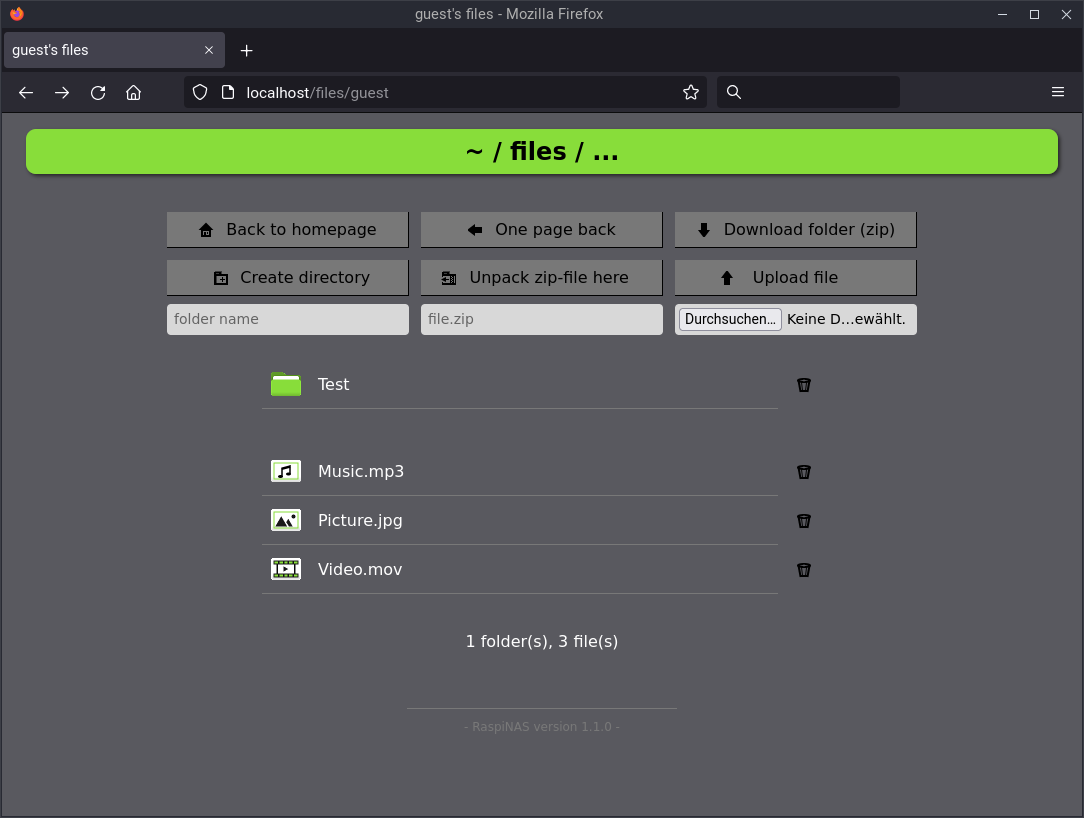
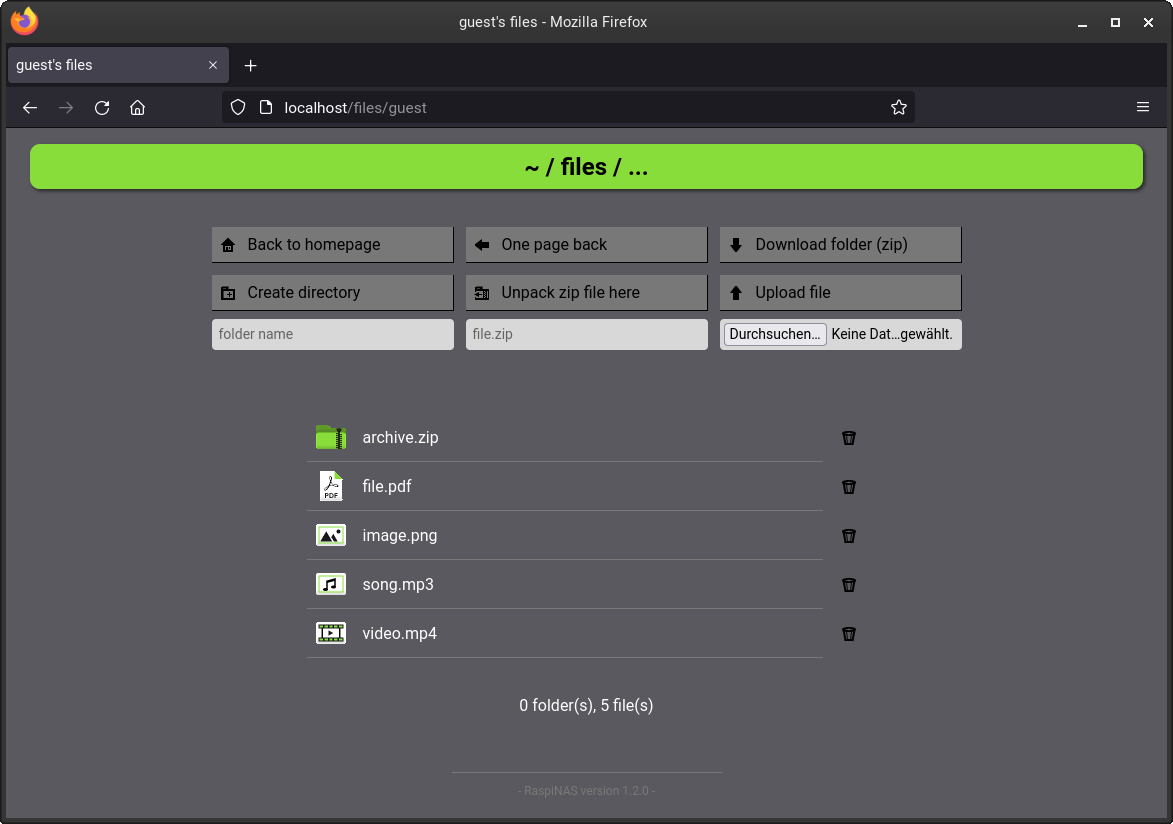
Add option to save uploaded files in a different directory

diff --git a/server.py b/server.py
@@ -13,7 +13,7 @@
 # You should have received a copy of the GNU Affero General Public License along with this program.
 # If not, see <https://www.gnu.org/licenses/>.
 
-# Currently recommended Python version: 3.10.4
+# Currently recommended Python version: 3.10.5
 
 import os
 import paste
@@ -33,31 +33,36 @@ from html_pages import HtmlPages
 LANGUAGE = 'en'  # 'en' for English, 'de' for German (Deutsch)
 HOSTIP = '0.0.0.0'  # 'localhost' for test purposes, '0.0.0.0' listens anywhere
 PORT = 80  # default HTTP port 80
+FILEPATH = ''  # path where the uploaded files are stored (e.g. '/home/user/files/')
 OWNER = ''  # insert a name here to personalize the webapp (e.g. 'John Doe')
-VERSION = '1.1.4'  # fix a problem where the uploaded file is incomplete (2022/05/08)
-ALPHABET = "ABCDEFGHIJKLMNOPQRSTUVWXYZabcdefghijklmnopqrstuvwxyz1234567890()+,.-_ "  # used to define allowed characters in directory names
-HTML = HtmlPages(OWNER, LANGUAGE)  # import repeatedly used HTML pages (to keep this file short and clear)
+VERSION = '1.2.0'  # add option to select a target path for the uploaded files (2022/06/26)
+ALPHABET = 'ABCDEFGHIJKLMNOPQRSTUVWXYZabcdefghijklmnopqrstuvwxyz1234567890()+,.-_ '  # used to define allowed characters in directory names
+HTML = HtmlPages(OWNER, LANGUAGE)  # import commonly used HTML pages (to keep this file short and clear)
 
 # ----- Beginning of the main functions: ------------------------------------------------
 #
 # __ Load usernames and userdata: __
-names = open("usernames.dat", "r", encoding="utf-8")
+names = open('usernames.dat', 'r', encoding='utf-8')
 USERNAMES = names.readlines()
 for entry in range(len(USERNAMES)):
-    USERNAMES[entry] = USERNAMES[entry].replace("\n", "")
+    USERNAMES[entry] = USERNAMES[entry].replace('\n', '')
 names.close()
-data = open("userdata.dat", "r", encoding="utf-8")
+data = open('userdata.dat', 'r', encoding='utf-8')
 USERDATA = data.readlines()
 for entry in range(len(USERDATA)):
-    USERDATA[entry] = USERDATA[entry].replace("\n", "")
+    USERDATA[entry] = USERDATA[entry].replace('\n', '')
 data.close()
+#
+# __ Ensure the correctness of the target file path: __
+if FILEPATH and FILEPATH[-1] != '/':
+    FILEPATH += '/'
 #
 # __ Increase allowed file size of uploads: __
 bottle.BaseRequest.MEMFILE_MAX = 32 * 1024 * 1024
 #
 # __ Create random cookie-secret: __
 SECRET = ''
-SECRET_ALPHABET = "abcdefghijklmnopqrstuvwxyz1234567890"
+SECRET_ALPHABET = 'abcdefghijklmnopqrstuvwxyz1234567890'
 for i in range(64):
     SECRET += SECRET_ALPHABET[random.randint(0, len(SECRET_ALPHABET) - 1)]
 #
@@ -86,7 +91,7 @@ def login():
             login_successful = True
             break
     if login_successful:
-        bottle.response.set_cookie("user", hashed, secret=SECRET)
+        bottle.response.set_cookie('user', hashed, secret=SECRET)
         bottle.redirect(f'/files/{str(name)}')
     else:
         return HTML.LoginFailed
@@ -107,10 +112,10 @@ def list_directory(directory):
             if username == USERNAMES[position] and user == (position + 1):
                 files = []
                 folders = []
-                folder_list = ""
-                file_list = ""
-                if os.path.isdir(f'users/{folder_path}'):
-                    for (pth, fol, dat) in os.walk(f'users/{folder_path}'):
+                folder_list = ''
+                file_list = ''
+                if os.path.isdir(f'{FILEPATH}users/{folder_path}'):
+                    for (pth, fol, dat) in os.walk(f'{FILEPATH}users/{folder_path}'):
                         folders.extend(fol)
                         files.extend(dat)
                         break
@@ -138,15 +143,15 @@ def list_directory(directory):
                     for file in files:
                         file_extension = str(file).split('.')[-1]
                         file_type = 'file'
-                        if file_extension.lower() in ["png", "bmp", "jpg", "jpeg", "gif", "tga", "dds", "heic", "webp"]:
+                        if file_extension.lower() in ['png', 'bmp', 'jpg', 'jpeg', 'gif', 'tga', 'dds', 'heic', 'webp']:
                             file_type = 'image'
-                        elif file_extension.lower() in ["zip", "tar", "7z", "gz", "deb", "rpm"]:
+                        elif file_extension.lower() in ['zip', 'tar', '7z', 'gz', 'deb', 'rpm']:
                             file_type = 'zip_folder'
-                        elif file_extension.lower() in ["mkv", "webm", "flv", "avi", "mov", "wmv", "mp4", "m4v"]:
+                        elif file_extension.lower() in ['mkv', 'webm', 'flv', 'avi', 'mov', 'wmv', 'mp4', 'm4v']:
                             file_type = 'video'
-                        elif file_extension.lower() in ["pdf"]:
+                        elif file_extension.lower() in ['pdf']:
                             file_type = 'pdf'
-                        elif file_extension.lower() in ["aac", "mp3", "m4a", "acc", "wav", "wma", "ogg", "flac", "aiff", "alac", "dsd", "mqa", "opus"]:
+                        elif file_extension.lower() in ['aac', 'mp3', 'm4a', 'acc', 'wav', 'wma', 'ogg', 'flac', 'aiff', 'alac', 'dsd', 'mqa', 'opus']:
                             file_type = 'music'
                         else:
                             pass
@@ -211,9 +216,9 @@ def list_directory(directory):
                                f'font-family:sans-serif; font-size:14px; margin-top:8px" required />'
                                f'</form></div>')
 
-                    show_path = ""
+                    show_path = ''
                     if len(folder_path.split('/')) > 1:
-                        show_path = (' / '.join(folder_path.split('/')[1:])) + " / "
+                        show_path = (' / '.join(folder_path.split('/')[1:])) + ' / '
                     header_language = [f'{username}\'s files', 'files', 'folder(s)', 'file(s)', 'version']
                     if LANGUAGE == 'de':
                         header_language = [f'Dateien von {username}', 'Dateien', 'Ordner', 'Dateien', 'Version']
@@ -253,7 +258,7 @@ def download_file(filepath):
         directory = '/'.join(str(filepath).split('/')[:-1])
         for position in range(len(USERNAMES)):
             if username == USERNAMES[position] and user == (position + 1):
-                return bottle.static_file(file, root='users/' + directory, download=file)
+                return bottle.static_file(file, root=f'{FILEPATH}users/{directory}', download=file)
     return HTML.AccessDenied
 
 
@@ -266,11 +271,11 @@ def download_zip(zippath):
         folder_name = directory.split('/')[-1]
         for position in range(len(USERNAMES)):
             if username == USERNAMES[position] and user == (position + 1):
-                if os.path.isfile(f'temp/{username}/{folder_name}.zip'):
-                    os.remove(f'temp/{username}/{folder_name}.zip')
-                shutil.make_archive(f'temp/{username}/{folder_name}', 'zip', f'users/{directory}')
-                # subprocess.run(f"zip -r ./temp/{username}/{folder_name}.zip ./users/{directory}/", shell=True, stdout=subprocess.DEVNULL)
-                return bottle.static_file(f'{folder_name}.zip', root=f'temp/{username}', download=f'{folder_name}.zip')
+                if os.path.isfile(f'{FILEPATH}temp/{username}/{folder_name}.zip'):
+                    os.remove(f'{FILEPATH}temp/{username}/{folder_name}.zip')
+                shutil.make_archive(f'{FILEPATH}temp/{username}/{folder_name}', 'zip', f'{FILEPATH}users/{directory}')
+                # subprocess.run(f'zip -r {FILEPATH}temp/{username}/{folder_name}.zip {FILEPATH}users/{directory}/', shell=True, stdout=subprocess.DEVNULL)
+                return bottle.static_file(f'{folder_name}.zip', root=f'{FILEPATH}temp/{username}', download=f'{folder_name}.zip')
     return HTML.AccessDenied
 
 
@@ -286,9 +291,9 @@ def delete_directory(deldirectorypath):
             return
         for position in range(len(USERNAMES)):
             if username == USERNAMES[position] and user == (position + 1):
-                if os.path.isdir(f'users/{directory}'):
-                    shutil.rmtree(f'users/{directory}')
-                    # subprocess.run(f"rm -rf users/{directory}", shell=True, stdout=subprocess.DEVNULL)
+                if os.path.isdir(f'{FILEPATH}users/{directory}'):
+                    shutil.rmtree(f'{FILEPATH}users/{directory}')
+                    # subprocess.run(f'rm -rf {FILEPATH}users/{directory}', shell=True, stdout=subprocess.DEVNULL)
                     bottle.redirect(f'/files/{prior_folder}')
                 else:
                     return HTML.NoDirectory
@@ -304,8 +309,8 @@ def delete_file(delfilepath):
         username = filepath.split('/')[0]
         for position in range(len(USERNAMES)):
             if username == USERNAMES[position] and user == (position + 1):
-                if os.path.isfile(f'users/{filepath}'):
-                    os.remove(f'users/{filepath}')
+                if os.path.isfile(f'{FILEPATH}users/{filepath}'):
+                    os.remove(f'{FILEPATH}users/{filepath}')
                     bottle.redirect(f'/files/{folder}')
                 else:
                     return HTML.NoFile
@@ -332,8 +337,8 @@ def create_directory(parentpath):
                 if len(new_folder) == 0 or len(new_folder) == new_folder.count(' '):
                     new_folder = 'new_folder'
                 #
-                if not os.path.isdir(f'users/{directory}/{new_folder}'):
-                    os.mkdir(f'users/{directory}/{new_folder}')
+                if not os.path.isdir(f'{FILEPATH}users/{directory}/{new_folder}'):
+                    os.mkdir(f'{FILEPATH}users/{directory}/{new_folder}')
                 bottle.redirect(f'/files/{directory}')
     return HTML.AccessDenied
 
@@ -348,12 +353,12 @@ def unpack_zipfile(ziptarget):
         username = target_folder.split('/')[0]
         for position in range(len(USERNAMES)):
             if username == USERNAMES[position] and user == (position + 1):
-                if os.path.isfile(f'users/{target_folder}/{zipfile}') and \
-                        not os.path.isdir(f'users/{target_folder}/{folder_name}') and \
+                if os.path.isfile(f'{FILEPATH}users/{target_folder}/{zipfile}') and \
+                        not os.path.isdir(f'{FILEPATH}users/{target_folder}/{folder_name}') and \
                         zipfile.split('.')[-1] == 'zip':
-                    os.mkdir(f'users/{target_folder}/{folder_name}')
-                    shutil.unpack_archive(f'users/{target_folder}/{zipfile}', f'users/{target_folder}/{folder_name}', 'zip')
-                    # subprocess.run(f"unzip ./users/{target_folder}/{zipfile} -d ./users/{target_folder}/{folder_name}", shell=True, stdout=subprocess.DEVNULL)
+                    os.mkdir(f'{FILEPATH}users/{target_folder}/{folder_name}')
+                    shutil.unpack_archive(f'{FILEPATH}users/{target_folder}/{zipfile}', f'{FILEPATH}users/{target_folder}/{folder_name}', 'zip')
+                    # subprocess.run(f'unzip {FILEPATH}users/{target_folder}/{zipfile} -d {FILEPATH}users/{target_folder}/{folder_name}', shell=True, stdout=subprocess.DEVNULL)
                     bottle.redirect(f'/files/{target_folder}/{folder_name}')
                 else:
                     error_language = ['Unpacking failed', 'Error: The given file does not exist or the target directory is not empty.', 'Back']
@@ -388,14 +393,14 @@ def upload_file(targetpath):
             if username == USERNAMES[position] and user == (position + 1):
                 new_file = bottle.request.files.get('filename')
                 copy_count = 0
-                while os.path.isfile(f'users/{target_folder}/{new_file.filename}'):
+                while os.path.isfile(f'{FILEPATH}users/{target_folder}/{new_file.filename}'):
                     copy_count += 1
                     name_parts = new_file.filename.split('.')
                     if copy_count > 1:
                         name_parts[-2] = name_parts[-2][:-3]
-                    name_parts[-2] = name_parts[-2] + f"({copy_count})"
+                    name_parts[-2] = name_parts[-2] + f'({copy_count})'
                     new_file.filename = '.'.join(name_parts)
-                new_file.save(f'users/{target_folder}')
+                new_file.save(f'{FILEPATH}users/{target_folder}')
                 bottle.redirect(f'/files/{target_folder}')
     return HTML.AccessDenied
 
@@ -406,7 +411,7 @@ def get_icon(image):
 
 
 def check_login():
-    hashed_credentials = bottle.request.get_cookie("user", secret=SECRET)
+    hashed_credentials = bottle.request.get_cookie('user', secret=SECRET)
     if hashed_credentials:
         for position in range(len(USERDATA)):
             if hashed_credentials == USERDATA[position]:
@@ -418,8 +423,8 @@ def background_task():
     while True:
         thread_wait.wait(1800)
         for name in USERNAMES:
-            for temp_file in os.listdir(f'temp/{name}'):
-                os.remove(f'temp/{name}/{temp_file}')
+            for temp_file in os.listdir(f'{FILEPATH}temp/{name}'):
+                os.remove(f'{FILEPATH}temp/{name}/{temp_file}')
 
 
 def start_receiver():

diff --git a/add_users.py b/add_users.py
@@ -1,5 +1,5 @@
 # This file creates hashed values from the user credentials and can be used to set up the needed directories.
-# Copyright (C) 2021  Nico Pieplow (nitrescov)
+# Copyright (C) 2022  Nico Pieplow (nitrescov)
 # Contact: nitrescov@protonmail.com
 
 # This program is free software: you can redistribute it and/or modify it under the terms of the
@@ -37,7 +37,7 @@ while True:
     print("\n--- add user ---\n")
     name = input("name: ")
     pin = input("pin: ")
-    hashed = hashlib.sha224(str(pin).encode('utf-8') + str(name).encode('utf-8')).hexdigest()
+    hashed = hashlib.sha224(str(pin).encode("utf-8") + str(name).encode("utf-8")).hexdigest()
     userfile = open("usernames.dat", "a", encoding="utf-8")
     userfile.write(str(name) + "\n")
     userfile.close()
@@ -62,6 +62,7 @@ if input() == "y":
         if not os.path.isdir(f"temp/{currentName}"):
             os.mkdir(f"temp/{currentName}")
     file.close()
+    print("\n\nTo save the uploaded files in another directory, move \'temp\' and \'users\' to the respective target directory.")
 else:
     pass
 

diff --git a/html_pages.py b/html_pages.py
@@ -1,5 +1,5 @@
-# In this file the repeatedly used HTML pages are stored.
-# Copyright (C) 2021  Nico Pieplow (nitrescov)
+# In this file the commonly used HTML pages are stored.
+# Copyright (C) 2022  Nico Pieplow (nitrescov)
 # Contact: nitrescov@protonmail.com
 
 # This program is free software: you can redistribute it and/or modify it under the terms of the

diff --git a/README.md b/README.md
@@ -22,7 +22,7 @@ Derzeit bin ich der einzige Entwickler hinter diesem Projekt, wodurch es zunäch
    * Die empfohlene Python Version ist 3.10.1. [Bottle](https://bottlepy.org) wurde in der Version 0.12.19 genutzt (aktuellere können funktionieren).
    * Mehr Informationen befinden sich in `requirements.txt`. Installation: `pip3 install -r requirements.txt`
    * Als serifenlose Schriftart im Browser empfiehlt sich Arial oder Roboto.
-   * Momentan werden Daten in Ordnern ausgehend vom Installationsverzeichnis der `server.py` Datei gespeichert. Daher **muss** dieses Verzeichnis auf der gleichen Festplatte liegen, auf der später die Daten abgelegt werden sollen.
+   * Standardmäßig werden Daten in Ordnern ausgehend vom Installationsverzeichnis der `server.py` Datei gespeichert. In diesem Fall **muss** dieses Verzeichnis auf der gleichen Festplatte liegen, auf der später die Daten abgelegt werden sollen.
 
 
 2. Erstellen und Löschen von Nutzern:
@@ -34,7 +34,7 @@ Derzeit bin ich der einzige Entwickler hinter diesem Projekt, wodurch es zunäch
 
 3. Einrichtung der `server.py` Datei:
    * In dieser Datei befinden sich zusätzliche Konfigurationsoptionen direkt nach den Imports unter `Server configuration and personalization`.
-   * Dort können Sprache, IP, Port, ein Besitzername und der Filter für Ordnernamen angepasst werden, das Programm ist aber auch mit den Standardeinstellungen lauffähig.
+   * Dort können Sprache, IP, Port, ein anderer Speicherpfad für die Dateien, ein Besitzername und der Filter für Ordnernamen angepasst werden, das Programm ist aber auch mit den Standardeinstellungen lauffähig.
 
 
 4. Starten des Servers:
@@ -69,7 +69,7 @@ Currently I'm the only developer behind the project. For that reason, there will
    * The recommended Python version is 3.10.1. [Bottle](https://bottlepy.org) was tested with version 0.12.19 (newer could still work).
    * More information can be found in `requirements.txt`. Installation: `pip3 install -r requirements.txt`
    * Arial or Roboto are recommended as sans serif fonts in the browser.
-   * Currently the data will be stored in directories starting from the installation home of the `server.py` file. For that reason, this parent directory **must** be stored on the same hard drive as the one where the data will go.
+   * By default, the data will be stored in directories starting from the installation home of the `server.py` file. In this case, this parent directory **must** be stored on the same hard drive as the one where the data will go.
 
 
 2. Create and delete users:
@@ -81,7 +81,7 @@ Currently I'm the only developer behind the project. For that reason, there will
 
 3. Setup of `server.py`:
    * This file contains additional configuration options which are located right after the import section (marked with `Server configuration and personalization`).
-   * There the language, ip, port, the name of the owner und a directory naming filter can be changed, although you can still run the program with default settings.
+   * There the language, ip, port, a different target directory for uploaded files, the name of the owner und a directory naming filter can be changed, although you can still run the program with default settings.
 
 
 4. Starting the server:
